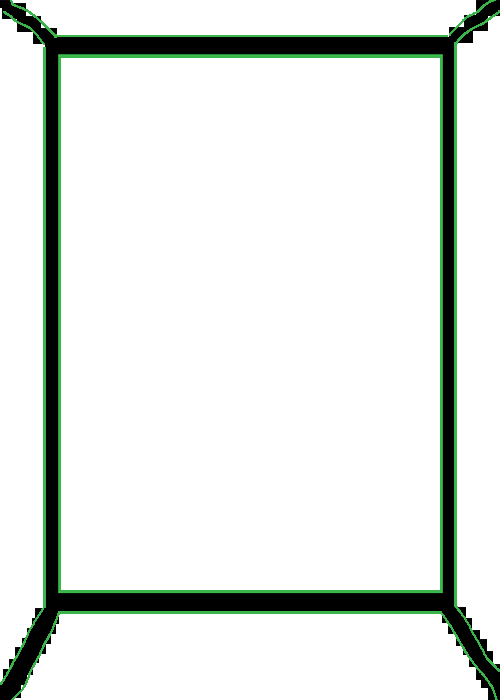
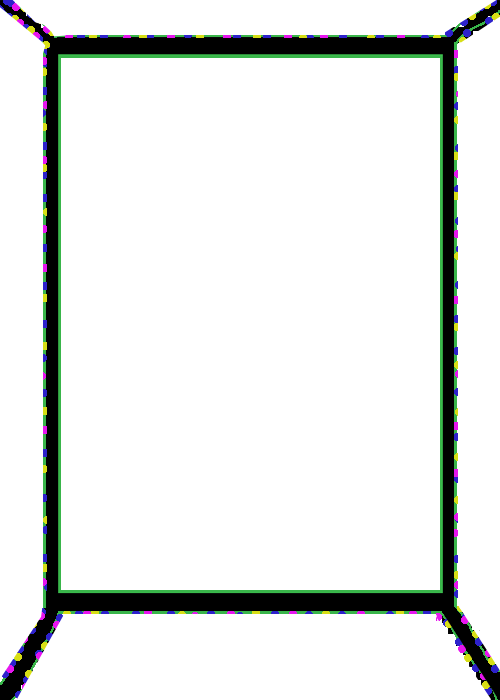
added colors, heads, etc

diff --git a/images/claw_game.js b/images/claw_game.js
@@ -1,7 +1,24 @@
 let square = document.getElementById("square");
+let glass = document.getElementById("front")
 let homePos = { x: 0, y: 0 };
 let isDropped = false;
 // console.log("square check", square.style.left);
+var images = ['./front_glass0.png', './front_glass1.png', './front_glass2.png', './front_glass3.png'];
+var currentIndex = 0;
+var interval = 2000; // Change image every 2 seconds
+//
+var images2 = [
+    { src: "./img1.png", depth: -155 },
+    { src: "./img2.png", depth: -255 },
+    { src: "./img3.png", depth: -200 },
+    { src: "./img4.png", depth: -144 },
+    { src: "./img5.png", depth: -140 },
+    { src: "./img6.png", depth: -150 },
+    { src: "./img7.png", depth: -146 },
+    { src: "./img8.png", depth: -141 }
+  ];
+var container = document.getElementById('container');
+
 
 function moveUp() {
 	if (!isDropped && parseInt(square.style.top) > 0) {
@@ -10,7 +27,7 @@ function moveUp() {
 }
 
 function moveDown() {
-	if (!isDropped && parseInt(square.style.top) < 450) {
+	if (!isDropped && parseInt(square.style.top) < 50) {
 		square.style.top = parseInt(square.style.top) + 1 + "px";
 	}
 }
@@ -38,22 +55,44 @@ function drop() {
         let max_distance = Math.max(currPos.x, currPos.y);
         console.log("max dist", max_distance);
         const interval = setInterval(function() {
-            if (i < 100) {
+            if (i < 300) {
                 square.style.top = startPos + i + "px";
-            } else if (i < 200) {
-                square.style.top = startPos + (200 - i) + "px";
-            } else if (i < (200 + max_distance)) {
-                square.style.top = Math.max(0, startPos - (i - 200)) + "px";
-                square.style.left = Math.max(0, startPosX - (i - 200)) + "px";
+            } else if (i < 600) {
+                square.style.top = startPos + (600 - i) + "px";
+                // set background image for the way back up
+                square.style.backgroundImage = "url('./claw.png')";
+            } else if (i < (600 + max_distance)) {
+                square.style.top = Math.max(0, startPos - (i - 600)) + "px";
+                square.style.left = Math.max(0, startPosX - (i - 600)) + "px";
             } else {
                 square.style.top = "0px";
                 square.style.left = "0px";
                 isDropped = false;
                 clearInterval(interval);
+                // set background image back to the original image
+                square.style.backgroundImage = "url('./claw_open.png')";
             }
-            i += 2;
+            i += 5;
         }, 50);
     }
 }
 
+for (var i = 0; i < images2.length; i++) {
+    var image = document.createElement('img');
+    image.src = images2[i].src;
+    image.style.transform = 'translateX(' + Math.random()*500 + 'px) translateY(' + 50 + 'px) translateZ(' + images2[i].depth/4 + 'px)';
+    image.style.width = '50%';
+    image.style.height = '50%';
+    container.appendChild(image);
+    console.log(image);
+  }
+
+// iterate through front glass images to give blinking color effect
+function changeImage() {
+  glass.style.backgroundImage = 'url(' + images[currentIndex] + ')';
+  currentIndex = (currentIndex + 1) % images.length; // Cycle through images
+}
+
+setInterval(changeImage, interval);
+  
 

diff --git a/images/claw_game.css b/images/claw_game.css
@@ -1,7 +1,7 @@
 #front {
     width: 500px;
     height: 700px;
-    background-image: url('./front_glass.png');
+    background-image: url('./front_glass0.png');
     position: absolute;
     /* top: -2px; */
     left: 0px;
@@ -9,7 +9,7 @@
     background-repeat: no-repeat; /* prevent the image from repeating */
     background-position: center center; /* center the image within the div */
     /* background-size: contain; */
-    z-index: 3;
+    z-index: 4;
   }
 
 #back {
@@ -41,7 +41,7 @@
 #square {
     width: 100px;
     height: 100px;
-    background-image: url("./claw.png");
+    background-image: url("./claw_open.png");
     position: absolute;
     background-size: contain; /* adjust the size of the image to fit within the div */
     background-repeat: no-repeat; /* prevent the image from repeating */
@@ -85,3 +85,17 @@
 .button.left {
     transform: rotate(180deg);
 }
+
+#container {
+    position: absolute;
+    perspective: 15px; 
+    z-index: 3;
+  }
+  
+  .image {
+    position: absolute;
+    /* width: 2px;
+    height: 2px;
+    transition: transform 0.5s;  */
+  } 
+  

diff --git a/images/claw_game.html b/images/claw_game.html
@@ -11,6 +11,11 @@
         <div id="front"></div>
         <div id="square"></div>
         <div id="back"></div>
+        <div id="container">
+            <!-- <img class="image" src="./img4.png">
+            <img class="image" src="./img5.png">
+            <img class="image" src="./img6.png"> -->
+        </div>
     </div>
 	<div class="button-container">
         <div class="button-group">
